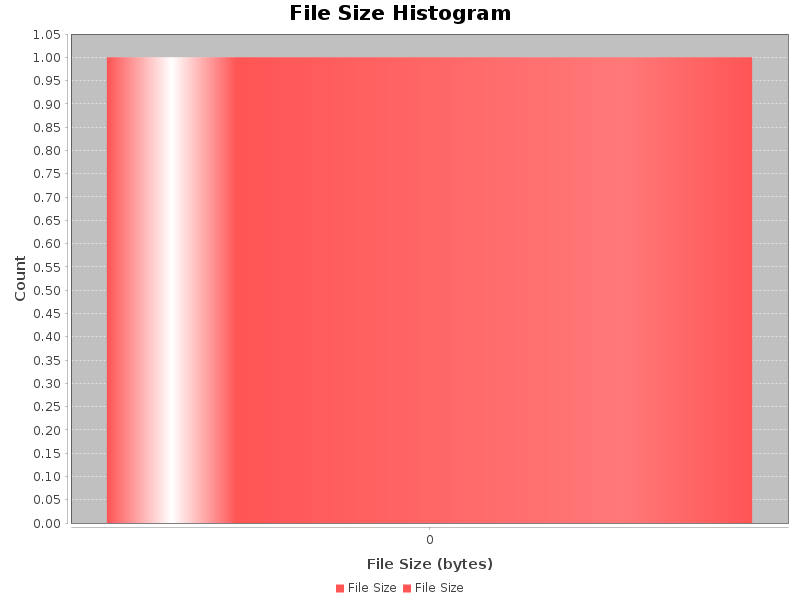
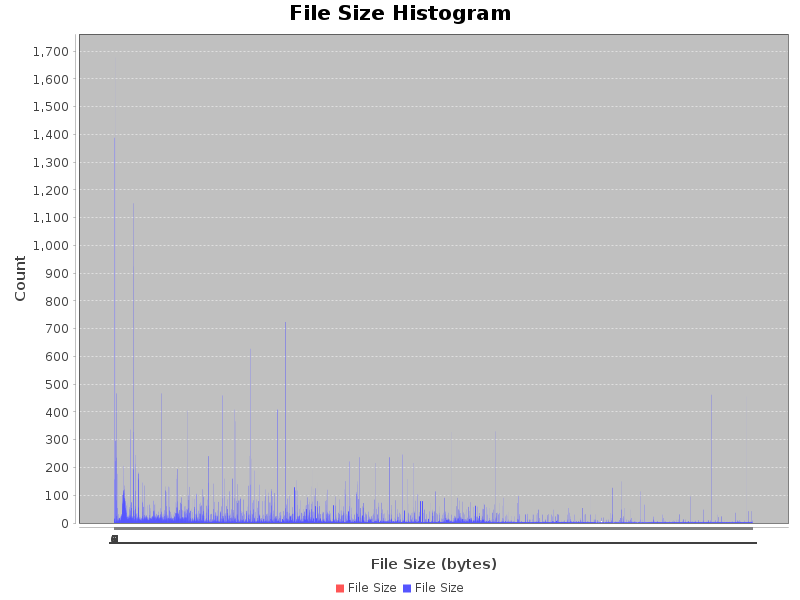
Skip locked files and repositories

diff --git a/src/main/java/org/example/HistogramBuilder.java b/src/main/java/org/example/HistogramBuilder.java
@@ -15,7 +15,7 @@ public class HistogramBuilder {
 
     public static void main(String[] args) {
         // Директорія для аналізу
-        File directory = new File("/Downloads");
+        File directory = new File("/home/bohdan");
 
         // Отримання розподілу розмірів файлів
         Map<Long, Integer> sizeDistribution = getFileSizeDistribution(directory);
@@ -47,7 +47,10 @@ public class HistogramBuilder {
         if (file.isDirectory()) {
             // Рекурсивний виклик для кожної підпапки
             File[] subFiles = file.listFiles();
+            if(subFiles == null) return;
             for (File subFile : subFiles) {
+                System.out.println(subFile.getName()+ " ");
+                if(subFile == null) continue;
                 analyzeFiles(subFile, sizeDistribution);
             }
         } else {
@@ -78,8 +81,9 @@ public class HistogramBuilder {
                 PlotOrientation.VERTICAL,  // Орієнтація графіку
                 true,                   // Легенда
                 true,                   // Відображення назв категорій на вісі X
-                false                   // Відображення значень на бічних панелях
+                true                   // Відображення значень на бічних панелях
         );
+
         return chart;
     }
 
